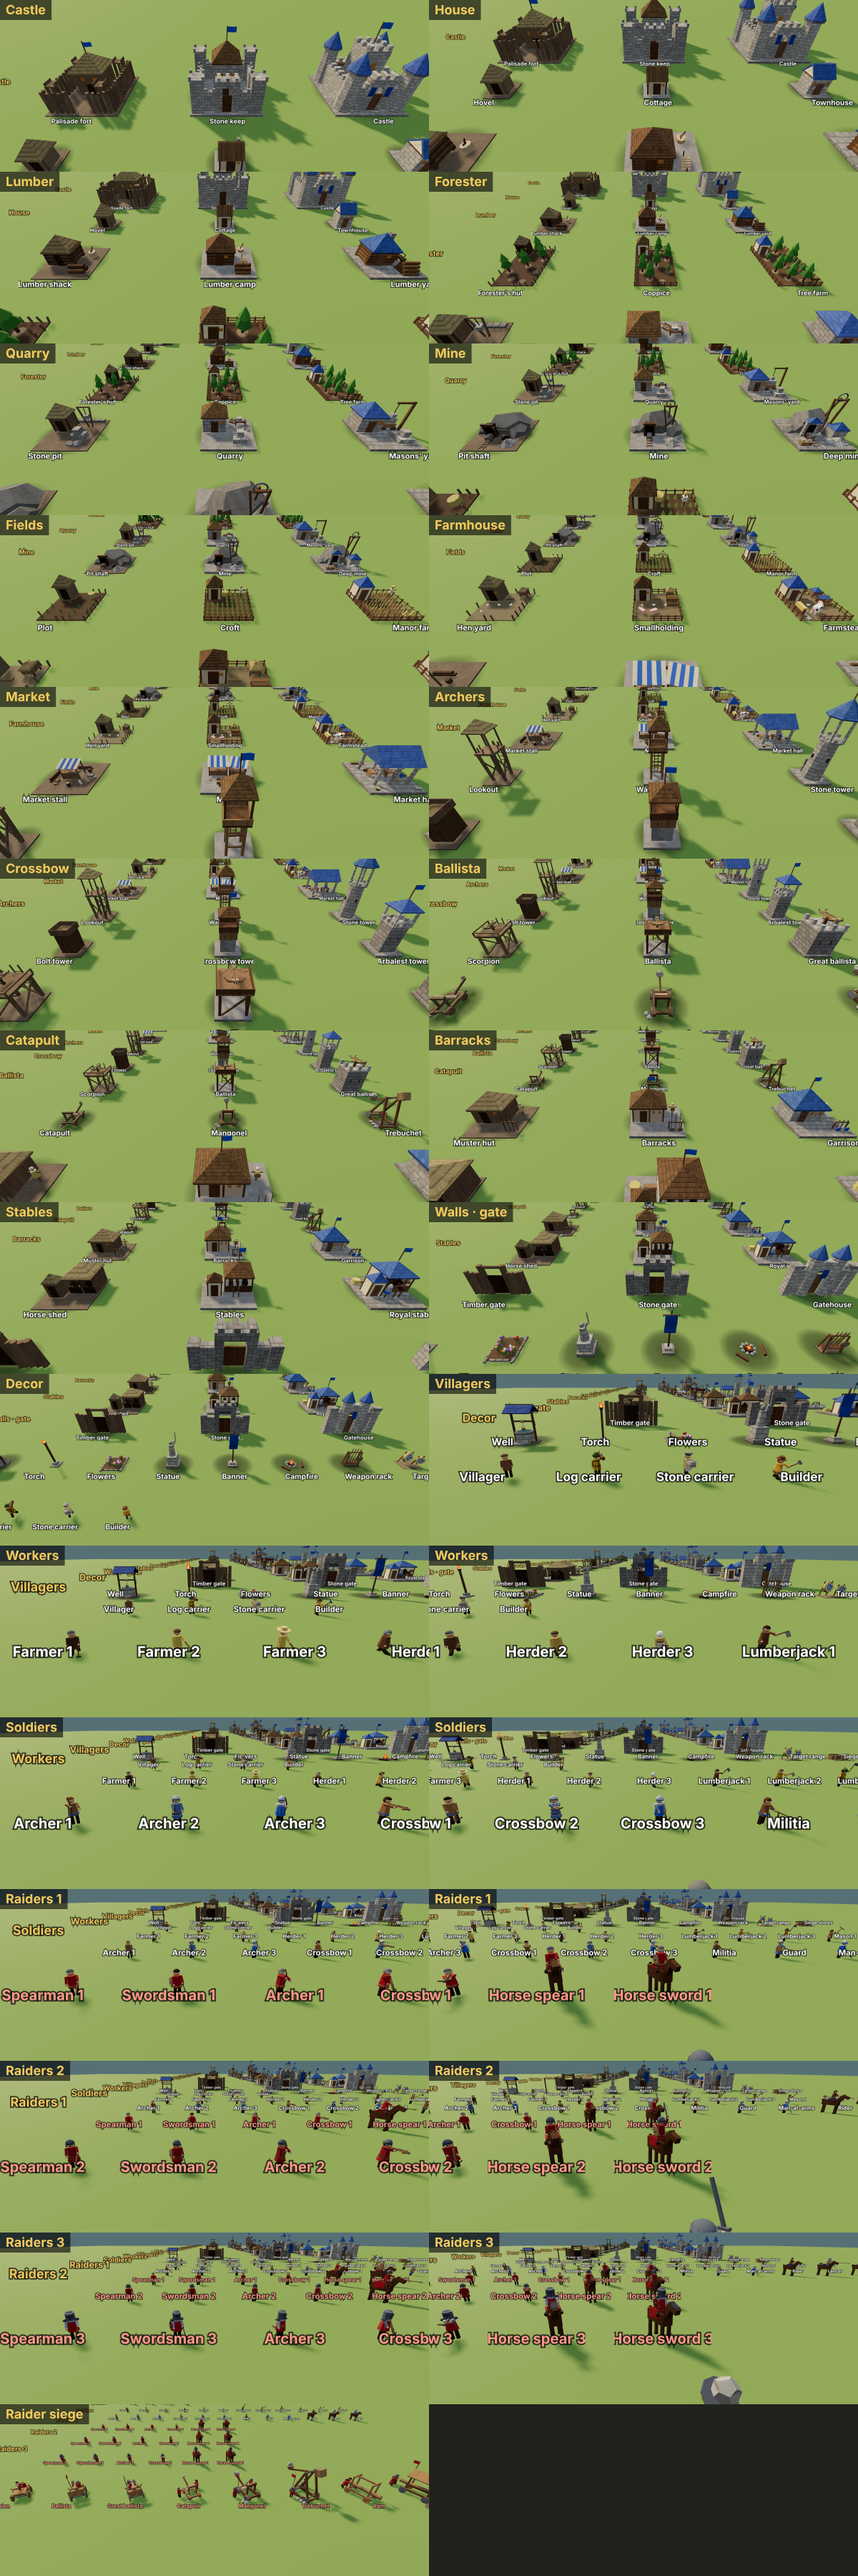
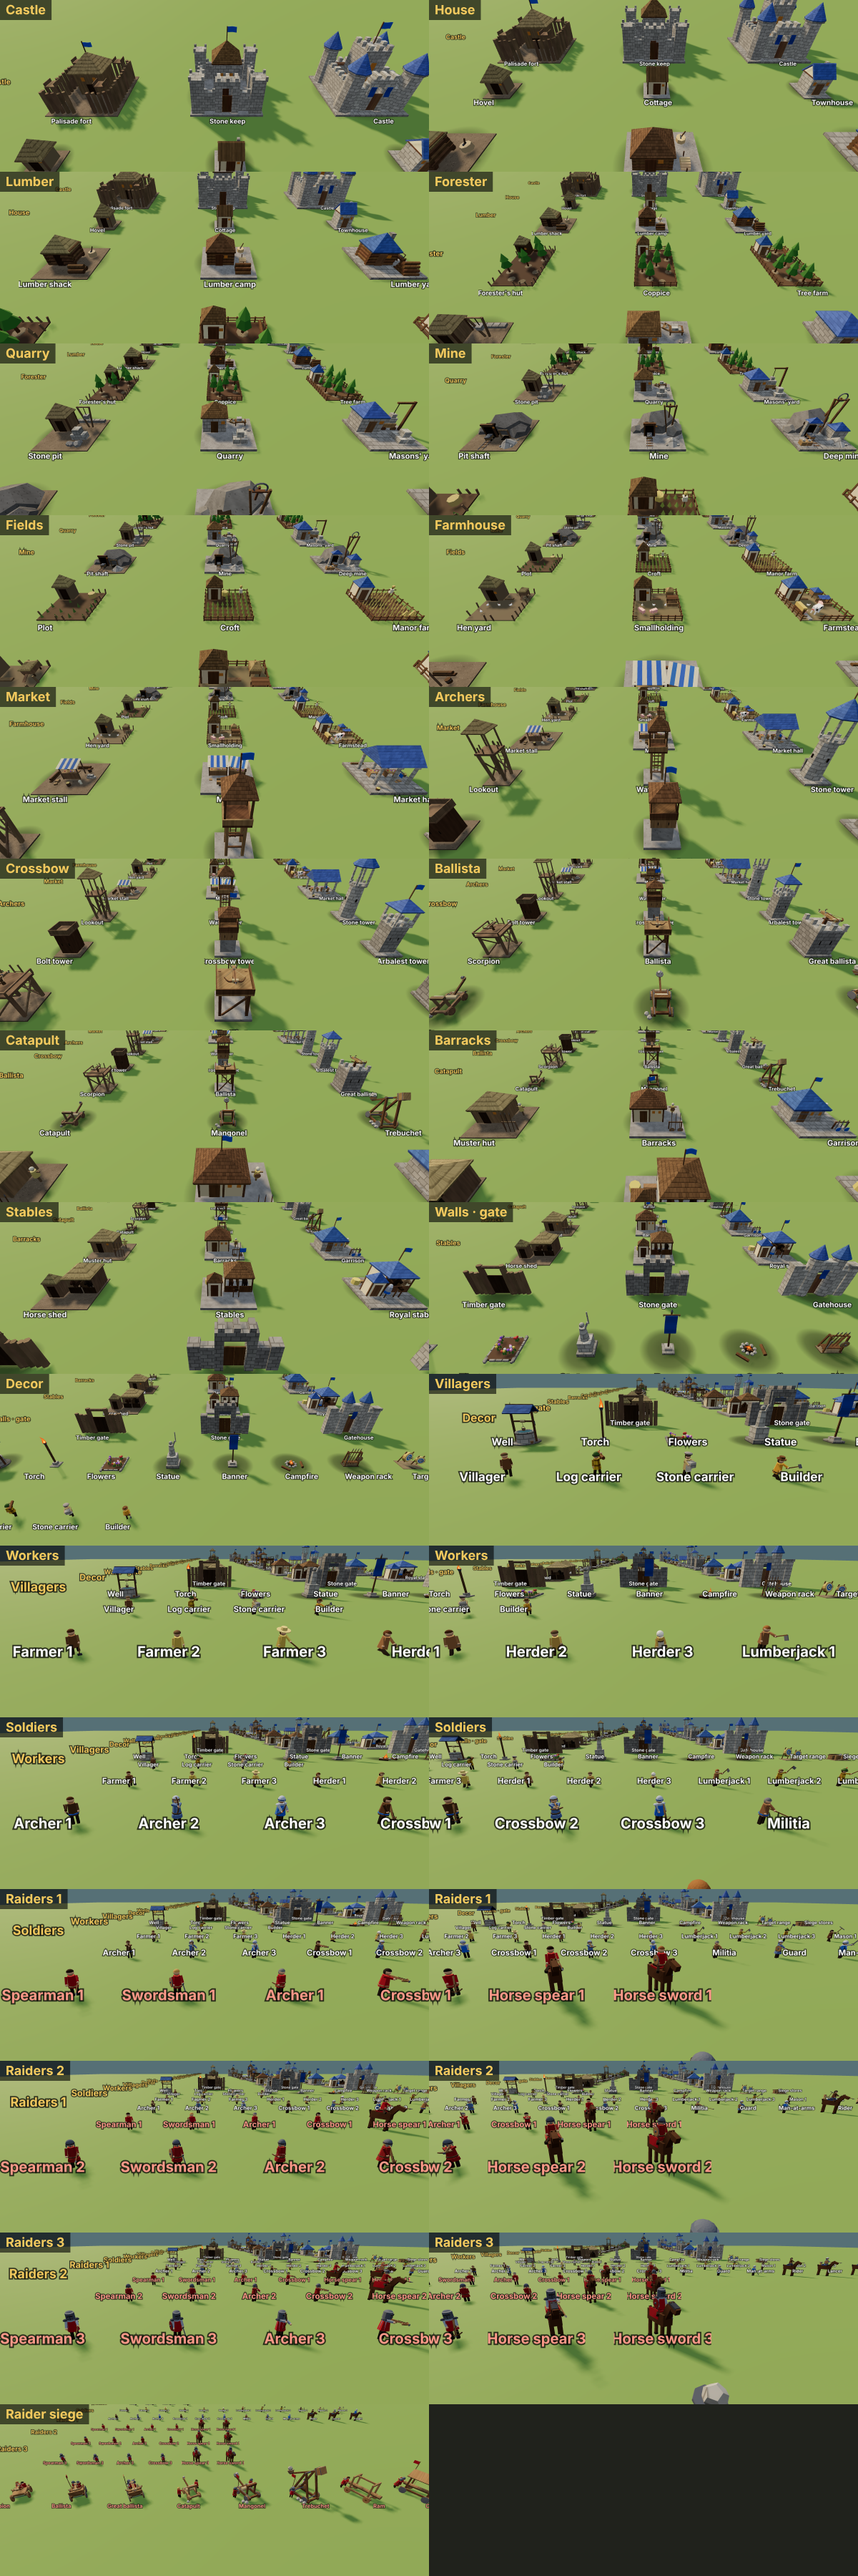
Raider ballista on a shorter stand with the mantlet seated on the deck; gentler ram bounce with the crew easing along
Claude-Session: https://claude.ai/code/session_01AE8sRRsVdpH9ETfQvtppox

diff --git a/index.html b/index.html
@@ -3990,8 +3990,8 @@ function makeEngine(kind, tier) {
     for (const z of [-.3, .55]) { m.add(box(.86, .1, .12, fm, 0, .42, z)); const ax = cyl(.03, .03, 1.0, 6, M.iron, 0, .26, z); ax.rotation.z = Math.PI / 2; m.add(ax); for (const sx of [-1, 1]) wheel(m, .26, sx * .5, .26, z, iron); }
     m.add(box(.84, .06, .87, M.wood, 0, .5, .215));
     if (tier === 3) for (const sx of [-1, 1]) m.add(box(.04, .04, 1.52, M.iron, sx * .38, .49, 0));
-    if (tier >= 2) { const sh = box(1.0, .4, .06, M.wood, 0, .73, .8); sh.rotation.x = -.25; m.add(sh); }       // a timber mantlet at the front
-    const t = ballistaTurret(BALLISTA_K[tier - 1] * .9); t.position.y = .5; m.add(t); P.turret = t;
+    if (tier >= 2) { const sh = box(1.0, .32, .06, M.wood, 0, .53 + .155, .65 + .04); sh.rotation.x = .25; m.add(sh); }   // the mantlet stands on the deck's front edge, leaning out       // a timber mantlet at the front
+    const t = ballistaTurret(BALLISTA_K[tier - 1] * .9); t.position.y = .53 - .18 * BALLISTA_K[tier - 1] * .9; m.add(t); P.turret = t;   // a short stand: its post runs down through the deck, the crank within the crew's reach
     P.rig = { statics: [], k: BALLISTA_K[tier - 1] * .9 };
     t.traverse(o => { const u = o.userData; if (u.bolt) P.bolt = o; for (const key of ['slider', 'bsL', 'bsR', 'prope', 'trope', 'crank']) if (u[key]) P.rig[key] = o; if (u.staticString) P.rig.statics.push(o); });
   } else if (kind === 'catapult') {
@@ -4267,10 +4267,10 @@ function crewRope(rope, a, c) { c.g.updateMatrixWorld(true); const h = c.arms[1]
 // one ram blow over p (0–1): the log's swing on its ropes (phi): the crew haul it back, drive it in faster and faster, the blow
 // at p .55 knocks it back, and they push it up again
 function ramSwing(p) {
-  if (p < .35) return -.6 * sstep(0, .35, p);
-  if (p < .55) { const u = (p - .35) / .2; return lerp(-.6, .38, u * u); }
-  if (p < .7) return lerp(.38, -.25, Math.sin((p - .55) / .15 * Math.PI / 2));
-  return lerp(-.25, 0, sstep(.7, 1, p));
+  if (p < .35) return -.42 * sstep(0, .35, p);
+  if (p < .55) { const u = (p - .35) / .2; return lerp(-.42, .2, u * u); }
+  if (p < .75) return lerp(.2, -.08, sstep(.55, .75, p));       // a short bounce off the wall
+  return lerp(-.08, 0, sstep(.75, 1, p));
 }
 const RAM_HIT = .55;
 function animEngine(e, dt, sw) {
@@ -4295,9 +4295,10 @@ function animEngine(e, dt, sw) {
         pose(c, e.walking ? .28 : 0, c.going ? -.3 : -1.35); c.atLog = false; return;
       }
       if (!c.atLog) { if (!crewGo(c, sx, endZ - .34, dt)) { kneel(c, 0); legs(c, true, t * 9 + i * Math.PI); pose(c, 0, -.3); return; } c.atLog = true; }
-      c.g.position.set(sx, 0, endZ - .34); c.g.rotation.y = 0; kneel(c, 0);
-      legs(c, Math.abs(v) > .4, t * (v > 2 ? 16 : 9) + i * Math.PI);           // stepping with the log
-      c.body.rotation.x += ((p < .35 && e.attackT > 0 ? -.15 : p < .55 && e.attackT > 0 ? .38 : p < .7 && e.attackT > 0 ? -.08 : .22) - c.body.rotation.x) * Math.min(1, dt * 10);
+      const cz = c.g.position.z + (endZ - .34 - c.g.position.z) * Math.min(1, dt * 7);   // they step with the log, a little behind it
+      c.g.position.set(sx, 0, cz); c.g.rotation.y = 0; kneel(c, 0);
+      legs(c, Math.abs(v) > .3, t * (v > 1.5 ? 14 : 9) + i * Math.PI);           // stepping with the log
+      c.body.rotation.x += ((p < .35 && e.attackT > 0 ? -.1 : p < .55 && e.attackT > 0 ? .3 : p < .75 && e.attackT > 0 ? .1 : .2) - c.body.rotation.x) * Math.min(1, dt * 10);
       c.g.updateMatrixWorld(true); const h = e.g.localToWorld(_cv.set(sx * .35, endY, endZ));   // both hands on the log's end
       crewAim(e, c, c.arms[0], h); crewAim(e, c, c.arms[1], h);
     });

diff --git a/CLAUDE.md b/CLAUDE.md
@@ -80,7 +80,7 @@ The whole game is currently one self-contained file: `index.html` (~165 KB, thre
 - **Day/night**: 5 waves on Meadow and River isle (`WAVES_STD`; `WAVES`, `NIGHTS`, `DAYLEN`, `SPAWN_GAP` are set per map by `mapRules()`; Mountain pass has 2). Day 1 lasts 300 s, days 2–5 last 150 s (`DAYLEN`); the last `DUSK` 40 s fade slowly to night (light and dusk colours in `updateLight`), with a "Dusk · Night N soon" banner and log line as it starts. Nothing is earned at night: no payouts (the `econT` ring waits for dawn) and a load carried in after dark is lost (`deliver`). Night ends when all enemies are dead. Summary screen at the end, with a star rating (`endGame`): 0 if the castle fell, 1 for surviving, 2 with some of the goals, 3 with all of them; goals: no buildings lost, no soldiers lost, castle above half health (listed with ticks, `#sumGoals`). The best per map is kept in `localStorage['mtd-stars']` (`STARS`, `starsHTML`, `starTotal`) and shown on the map cards (`markMapStars`); the total shows on the campaign screen.
 - **Campaign overview** (title screen → Campaign, `#campaign`): a sketch: one hand-drawn SVG map (`campaignSVG`: sea, meadows in the south, woods, a river, hills, snowy mountains and the raiders' reddish north) with a dashed road through twelve numbered markers, the last two red boss markers (`CAMPAIGN`: name, position in the 800 × 900 view, the buildings each adds); tapping a marker shows its name, what it brings in (tool icons with names), stars and "Soon" (`campaignInfo`). Landscape puts the info beside the map. Nothing on it is playable yet.
 - **Waves** (`WAVES`): each wave lists how many of each kind come by tier, `{ kind: [tier 1, tier 2, tier 3] }` (`WAVES_STD`): spearmen are the basic raider and come first; 1 = 7 spears + 2 archers; 2 adds swordsmen and a ram; 3 crossbows, horse spears and a ballista; 4 horse swords, a catapult, tiers climb; 5 mostly tier 2–3 with a great ballista, a trebuchet and two rams. `startNight` builds the queue (`[kind, spawn point, tier]`): spearmen first, the other foot and horse mixed in at random, siege engines at the tail. The captain is gone.
-- **Raider kinds** (`ENEMY`; tier multipliers `RAIDER_T` hp ×1/1.6/2.3, dmg ×1/1.3/1.65; gallery names `RAIDER_NAME`): spear, sword (round shield; tier 3 a red one), archer (bow), xbow (crossbow, `xbowPose`, short bolts, range 5.5), lancer (spear on a horse), rider (sword and shield on a horse), and three wheeled siege engines (`engine: true`, built by `makeEngine`, crewed by two figures of its tier standing in the engine's own frame, `animEngine`): ballista (the town's swivel bow `ballistaTurret` on a wheeled carriage, a timber mantlet from tier 2; the deck stops short of the back and the rear axle sits under its edge, so the crew stand in between the rails under the winch; a straight bolt, range 10), catapult (the town's `makeCatapult(tier)`: catapult / mangonel / trebuchet; a high stone sized by `CATA_SHOT` with `blastFx`, range 13), ram (a log slung level on two ropes (`RAM_Y`, `RAM_ROPE`) from a frame on four wheels; tier 2 a plank roof, tier 3 hides banded in iron and an iron head; range 1.25 from its middle). Crew: while an engine rolls both push from behind (lean in, arms forward); once it's in range the ballista's and catapult's crew walk to their work (`crewGo`): the loader kneels at the winch and turns the crank (`crewAim` puts both hands on the handle), which draws the ballista's slider and string back by the pulley rope or winds the catapult's arm down by its rope, and the reload (`e.load`, over `ENG_LOAD` × rate) only runs while he winds; the gunner holds the trigger line (`crewRope`) and yanks it to loose (`e.fireT` .35 s); they shoot only with both at their posts and fully wound (`e.crewReady`). The ram stays put at the wall: its pair take the log's back end and swing it on its ropes over `RAM_T` 2 s (`ramSwing`: haul it back, drive it in faster and faster, the blow (`RAM_HIT` .55) knocks it back, push it up again), stepping with it, both hands on the end (`crewAim`); while it rolls they push the frame from behind. Engines from tier 2 fly a red pennant, never fight soldiers, turn slowly to aim (only shoot within .25 rad), keep others off by `ENEMY[k].r`, and when broken throw timbers and dust (`engineWreck`), slump and sink. Targets (`pickTarget`): spearmen the nearest building; swordsmen and horse spears the nearest tower or siege engine (`DEFENCE`: anything with archers or crew but the castle; else nearest building); horse swords the castle; archers, crossbows and ballistas the nearest non-wall building, shooting over walls (`lob` adds 3.5 m reach when a wall blocks them); catapults defences, then any non-wall building; rams walls and gates (`WALLY`), else the castle. Soldiers reach `ENEMY[k].r` further to hit an engine.
+- **Raider kinds** (`ENEMY`; tier multipliers `RAIDER_T` hp ×1/1.6/2.3, dmg ×1/1.3/1.65; gallery names `RAIDER_NAME`): spear, sword (round shield; tier 3 a red one), archer (bow), xbow (crossbow, `xbowPose`, short bolts, range 5.5), lancer (spear on a horse), rider (sword and shield on a horse), and three wheeled siege engines (`engine: true`, built by `makeEngine`, crewed by two figures of its tier standing in the engine's own frame, `animEngine`): ballista (the town's swivel bow `ballistaTurret` on a wheeled carriage, a timber mantlet from tier 2; the deck stops short of the back and the rear axle sits under its edge, so the crew stand in between the rails under the winch; the bow sits on a short stand (its post runs down through the deck) so the crank is within their reach; the mantlet stands on the deck's front edge, leaning out; a straight bolt, range 10), catapult (the town's `makeCatapult(tier)`: catapult / mangonel / trebuchet; a high stone sized by `CATA_SHOT` with `blastFx`, range 13), ram (a log slung level on two ropes (`RAM_Y`, `RAM_ROPE`) from a frame on four wheels; tier 2 a plank roof, tier 3 hides banded in iron and an iron head; range 1.25 from its middle). Crew: while an engine rolls both push from behind (lean in, arms forward); once it's in range the ballista's and catapult's crew walk to their work (`crewGo`): the loader kneels at the winch and turns the crank (`crewAim` puts both hands on the handle), which draws the ballista's slider and string back by the pulley rope or winds the catapult's arm down by its rope, and the reload (`e.load`, over `ENG_LOAD` × rate) only runs while he winds; the gunner holds the trigger line (`crewRope`) and yanks it to loose (`e.fireT` .35 s); they shoot only with both at their posts and fully wound (`e.crewReady`). The ram stays put at the wall: its pair take the log's back end and swing it on its ropes over `RAM_T` 2 s (`ramSwing`: haul it back .42 rad, drive it in faster and faster to .2, the blow (`RAM_HIT` .55) bounces it back a little (−.08), push it up again; Jack found a bigger knock-back threw the crew about), stepping with it a little behind (eased at 7/s), both hands on the end (`crewAim`); while it rolls they push the frame from behind. Engines from tier 2 fly a red pennant, never fight soldiers, turn slowly to aim (only shoot within .25 rad), keep others off by `ENEMY[k].r`, and when broken throw timbers and dust (`engineWreck`), slump and sink. Targets (`pickTarget`): spearmen the nearest building; swordsmen and horse spears the nearest tower or siege engine (`DEFENCE`: anything with archers or crew but the castle; else nearest building); horse swords the castle; archers, crossbows and ballistas the nearest non-wall building, shooting over walls (`lob` adds 3.5 m reach when a wall blocks them); catapults defences, then any non-wall building; rams walls and gates (`WALLY`), else the castle. Soldiers reach `ENEMY[k].r` further to hit an engine.
 - **Raider looks by tier** (`raiderArmour(p, tier)`, the same for every kind, only the weapon differs): tier 1 a plain red shirt (`raiderRed`) with a rope belt, bare-headed; tier 2 a red quilted gambeson (`raiderQuiltM`) with a short skirt, leather belt and the iron helm with nose and cheek guards (`makeHelm('raider')`); tier 3 mail under a red surcoat, a closed iron great helm (`makeHelm('greathelm')`: flat top, eye slit, breaths, a cross on the face) and dark iron shoulder plates. Horses wear a red blanket; tier 2+ a red cloth down the flanks, tier 3 an iron plate down the face. Gallery rows Raiders 1–3 and Raider siege.
 - **Resource icons**: stone is a faceted grey rock like the map's rocks, food a drumstick (`ICON.stone`, `ICON.food`; `ICON_IMG` follows).
 - **Economy**: payouts every `TICK=20` s (ring in top panel). Each villager eats 1 food every `MEAL=20` s of daylight; hungry villagers go home and sleep. A farmer who goes hungry leaves the field (`v.job = null` in `feedVillager`); `assignJobs` (also every 0.5 s by day) fills farms first and, while food is low (`foodLow`: under 3 meals a head, or `foodMade()`, the farms' (by farmers at work) and castle's food per payout, is less than the villagers eat per payout), moves a lumberjack or mason (not carrying, building or posted) to an empty farm job ("Food low · worker to the farm", at most every 20 s).
